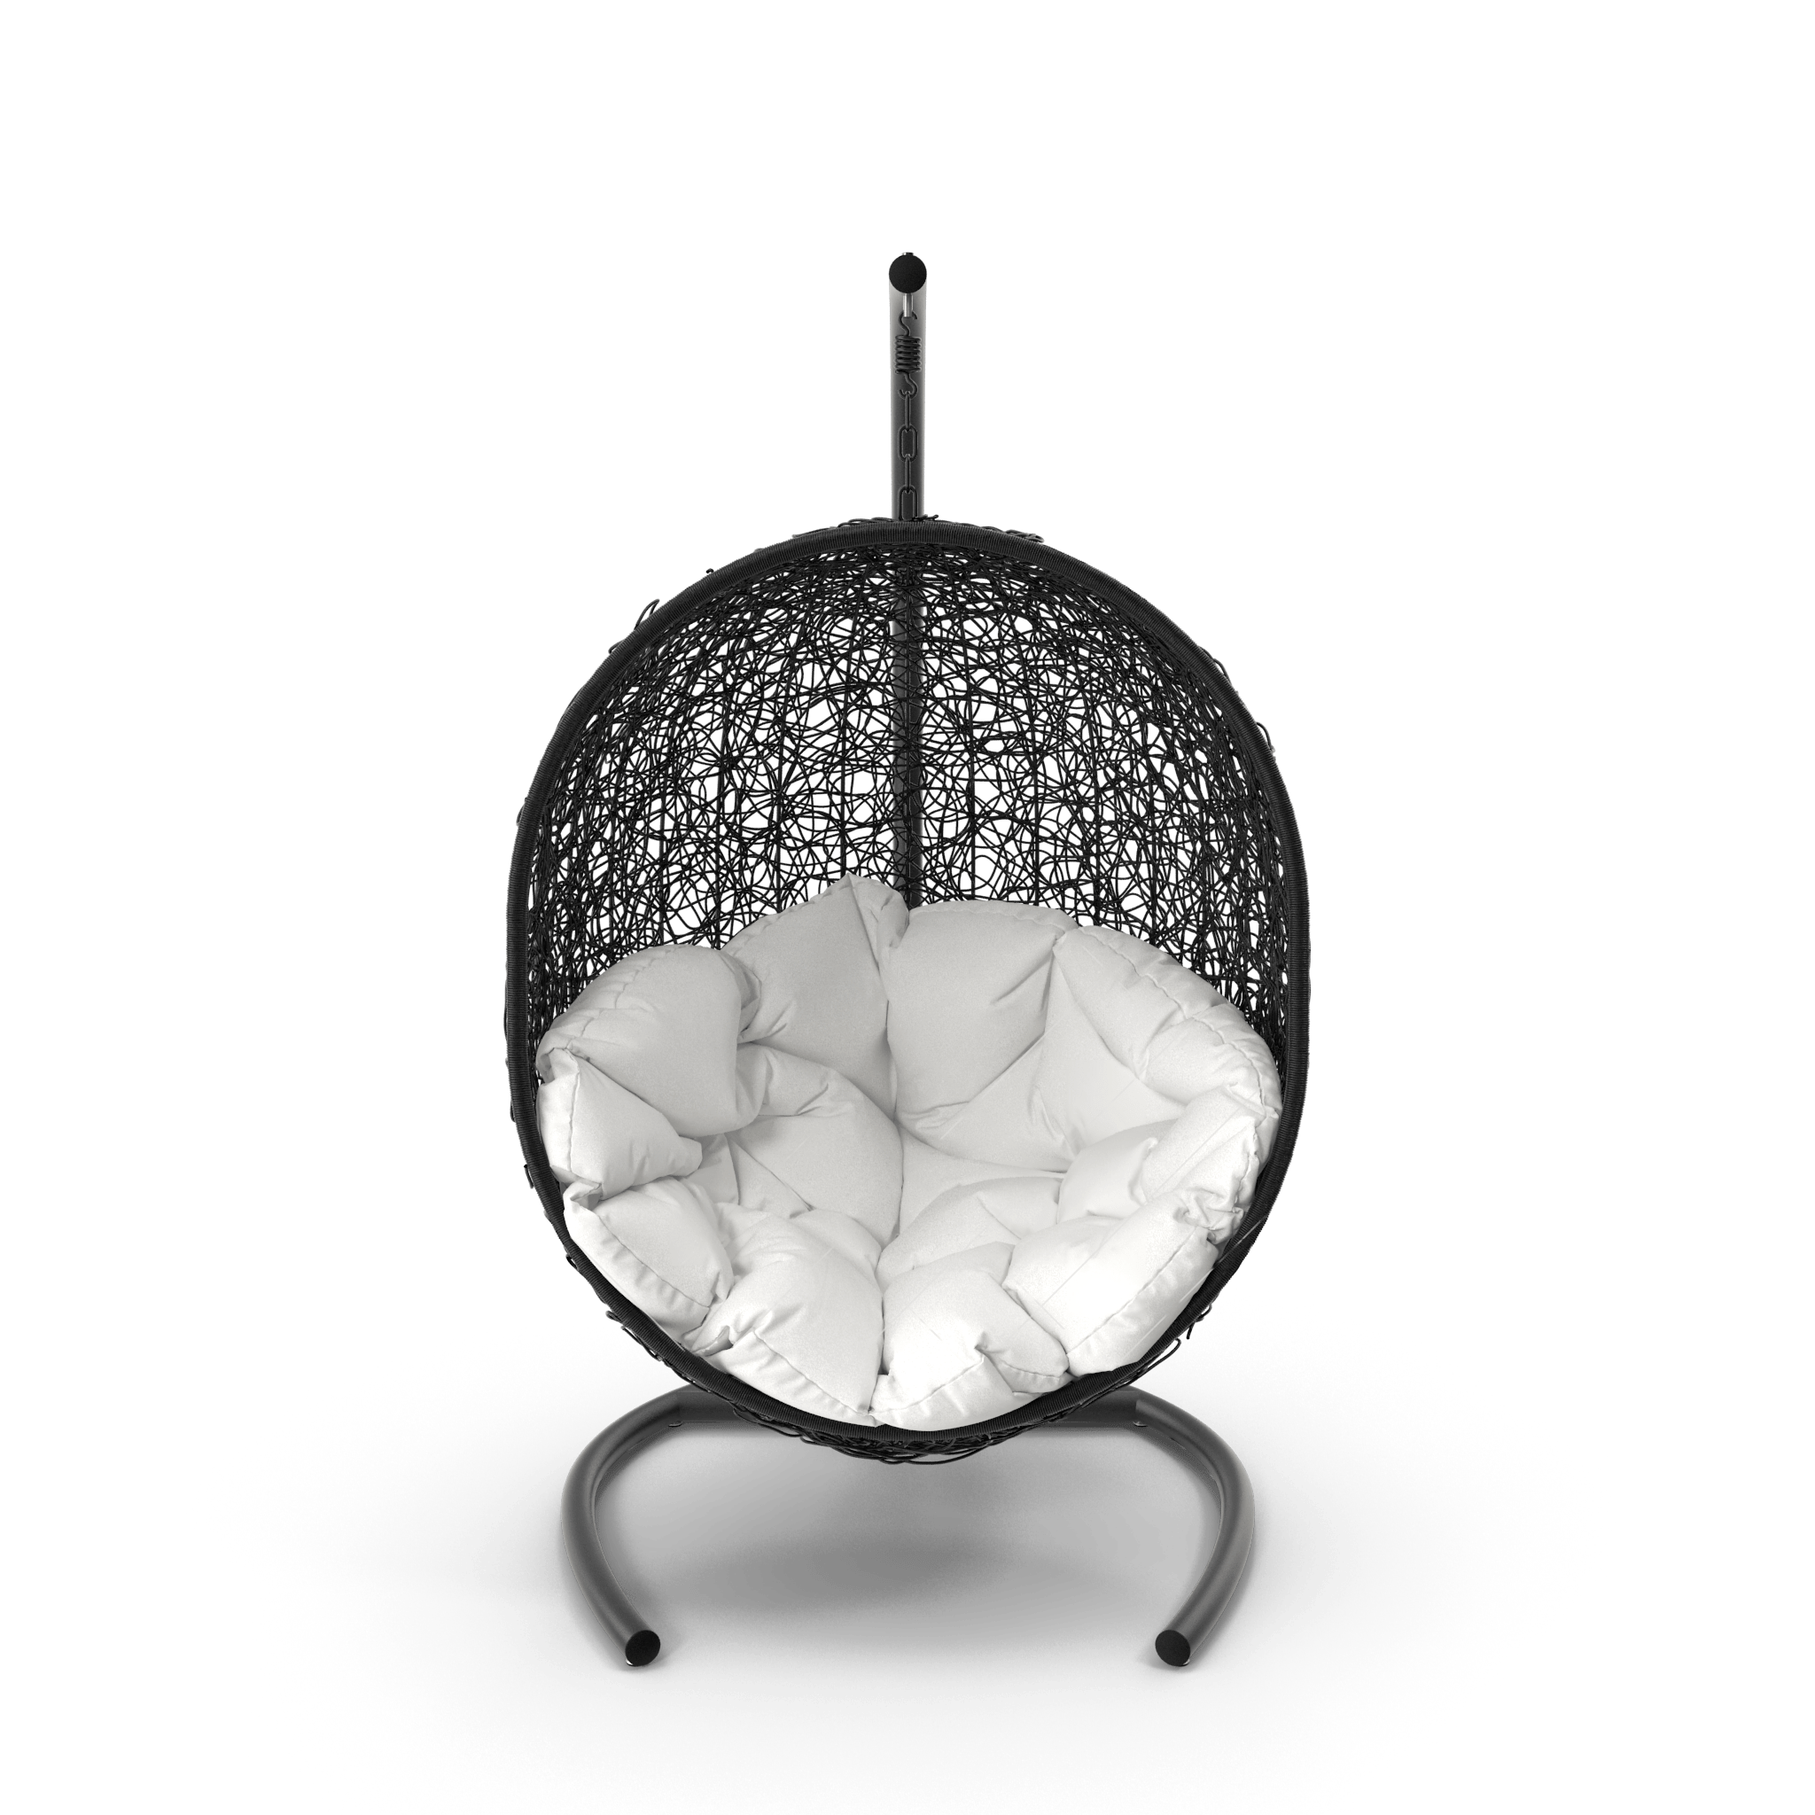
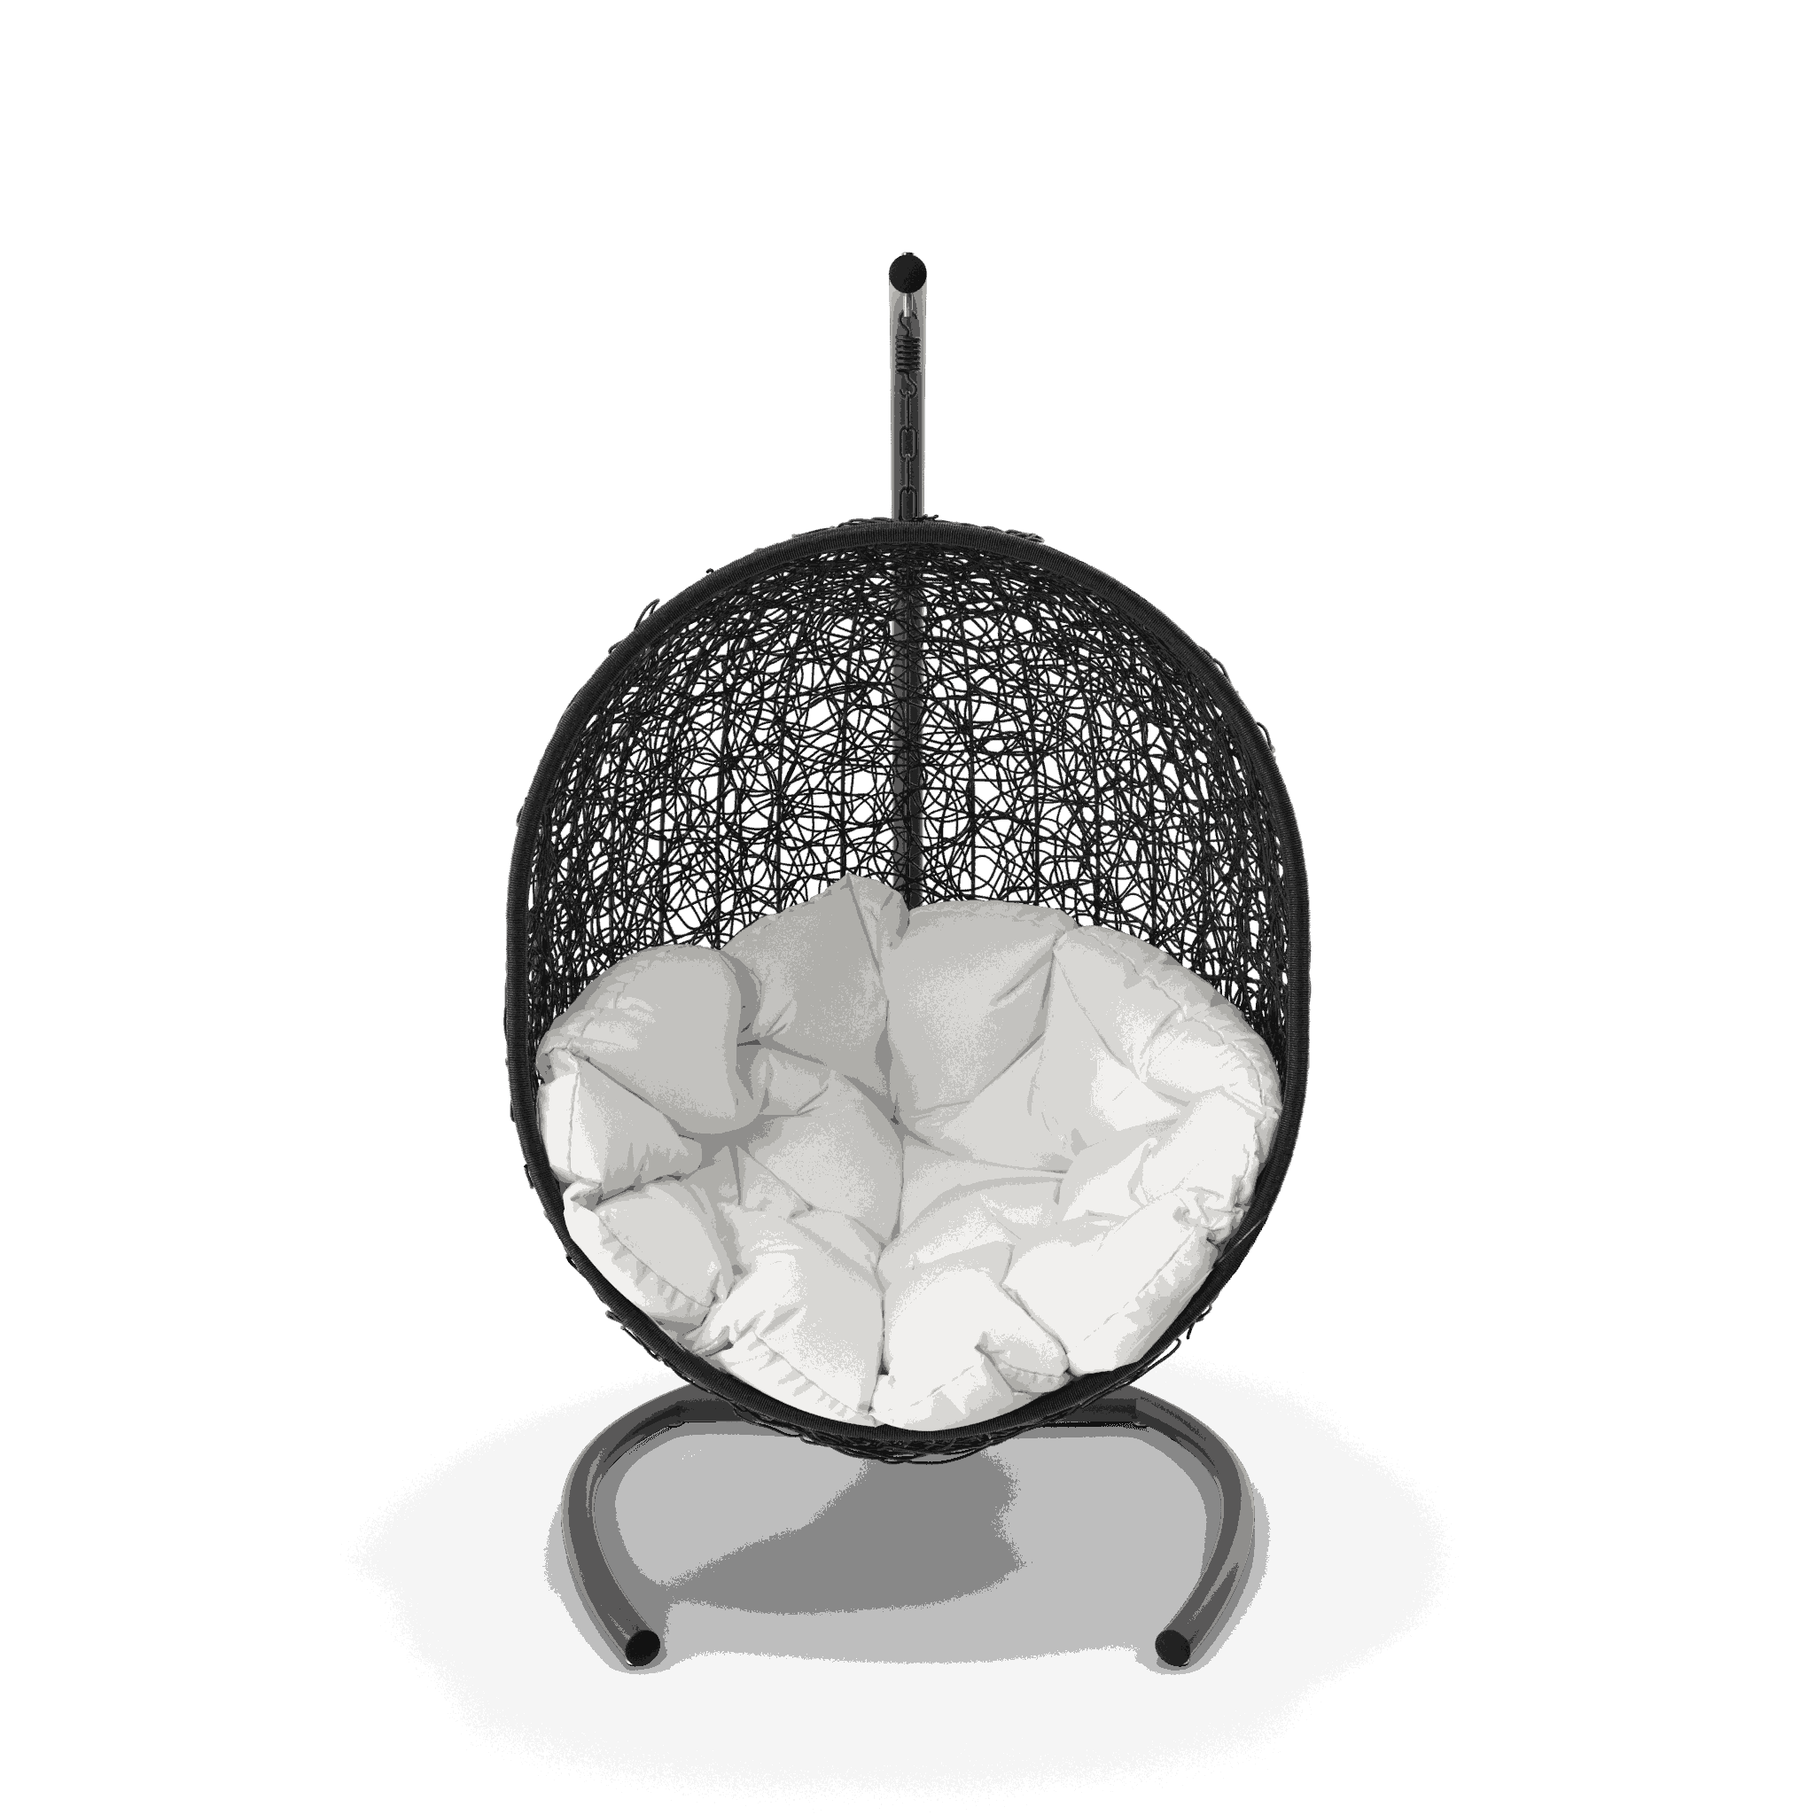
image and site optimization

diff --git a/src/Components/Product/Product.jsx b/src/Components/Product/Product.jsx
@@ -11,6 +11,7 @@ import { snackbarMessage, snackbarMessage2 } from "../../utils/constants";
 import ProductReview from "./ProductReview";
 import CustomButton from "../CustomButton/CustomButton";
 import { useGetProductDetailsQuery } from "../../Reduxtoolkit/apiSlice/apiSlice";
+import CompressedImage from "../CompressedImage";
 
 export default function Product() {
   const [open, setOpen] = React.useState(false);
@@ -66,16 +67,29 @@ export default function Product() {
                   />
                 </div>
                 <div className="flex items-baseline justify-center">
-                  <img
-                    src={
+                  {/* <img
+                      src={
+                        product.images.length > 0
+                          ? product.images[imageIdx]
+                          : product.thumbnail
+                      }
+                      loading="lazy"
+                      alt={product.title}
+                      className="rounded-3xl transition ease-in-out delay-25 hover:-translate-y-1 hover:scale-105
+                duration-300 cursor-pointer "
+                    /> */}
+
+                  <CompressedImage
+                    imageUrl={
                       product.images.length > 0
                         ? product.images[imageIdx]
                         : product.thumbnail
                     }
-                    loading="lazy"
+                    thumbnail={product.thumbnail}
                     alt={product.title}
-                    className="w-[100%] md:w-[60%] lg:w-[70%] object-cover rounded-3xl transition ease-in-out delay-25 hover:-translate-y-1 hover:scale-105
-                duration-300 cursor-pointer "
+                    loading="lazy"
+                    classes="rounded-3xl transition ease-in-out delay-25 hover:-translate-y-1 
+                hover:scale-105 duration-300 cursor-pointer"
                   />
                 </div>
               </div>
@@ -85,17 +99,13 @@ export default function Product() {
                   {product.title}
                 </h1>
                 <div className="text-sm md:text-base">
-                  <p>Brand: {product?.brand} </p>
-                  <p>
-                    Units Left:{" "}
-                    {product.stock > 0 ? product.stock : "Out of Stock"}{" "}
-                  </p>
-                  <div className="flex gap-2">
-                    <span>Price: </span>
-                    <span className="font-bold">
-                      Rs. {(product.price * 84).toLocaleString("en-IN")}{" "}
-                    </span>
-                  </div>
+                  {product.brand && <p>Brand: {product.brand} </p>}
+                  {product.stock && (
+                    <p>
+                      Units Left:{" "}
+                      {product.stock > 0 ? product.stock : "Out of Stock"}{" "}
+                    </p>
+                  )}
                   <div className="flex">
                     <span className="line-through mr-1">
                       Rs.{" "}
@@ -109,11 +119,24 @@ export default function Product() {
                       ({product.discountPercentage}% off)
                     </span>
                   </div>
-                  <p>Miniumum Order Quantity: {product.minimumOrderQuantity}</p>
+                  <div className="flex gap-2">
+                    <span>Price: </span>
+                    <span className="font-bold">
+                      Rs. {(product.price * 84).toLocaleString("en-IN")}{" "}
+                    </span>
+                  </div>
+
+                  {product.minimumOrderQuantity > 1 && (
+                    <p>
+                      Miniumum Order Quantity: {product.minimumOrderQuantity}
+                    </p>
+                  )}
                   <p>Rating: {product.rating}/5 </p>
-                  <p className="mb-4 mt-1">
-                    Description: {product.description}.
-                  </p>
+                  {product.description && (
+                    <p className="mb-4 mt-1">
+                      Description: {product.description}.
+                    </p>
+                  )}
                   <div className="flex flex-col gap-2 md:flex-row font-semibold lg:font-bold">
                     <CustomButton
                       text="Add to Cart"

diff --git a/src/Components/CompressedImage.jsx b/src/Components/CompressedImage.jsx
@@ -1,0 +1,64 @@
+import React, { useState, useEffect } from "react";
+import imageCompression from "browser-image-compression";
+
+const CompressedImage = ({
+  imageUrl,
+  thumbnail,
+  alt,
+  onClickFunc,
+  loading,
+  classes,
+}) => {
+  const [compressedImage, setCompressedImage] = useState(null);
+
+  // Compress image using the existing image URL without refetching it
+  const compressImageFromUrl = async (url) => {
+    try {
+      const img = new Image();
+      img.src = url;
+      img.crossOrigin = "Anonymous"; // Ensure the image is accessible for manipulation
+      img.onload = async () => {
+        // Create a canvas to draw the image and convert it to Blob
+        const canvas = document.createElement("canvas");
+        canvas.width = img.width;
+        canvas.height = img.height;
+        const ctx = canvas.getContext("2d");
+        ctx.drawImage(img, 0, 0);
+
+        canvas.toBlob(async (blob) => {
+          const options = {
+            maxSizeMB: 0.5, // Adjust size as needed
+            maxWidthOrHeight: 1280,
+            useWebWorker: true,
+          };
+
+          // Compress the image Blob
+          const compressedBlob = await imageCompression(blob, options);
+          const compressedImageUrl = URL.createObjectURL(compressedBlob);
+          setCompressedImage(compressedImageUrl);
+        }, "image/webp"); // You can also use 'image/webp' for further optimization
+      };
+    } catch (error) {
+      console.error("Error compressing the image:", error);
+    }
+  };
+
+  useEffect(() => {
+    imageUrl && compressImageFromUrl(imageUrl);
+  }, [imageUrl]);
+
+  return (
+    <img
+      src={compressedImage || thumbnail} // Use compressed image if available
+      alt={alt} // Provide default alt text
+      onClick={onClickFunc}
+      loading={loading} // Lazy load the image
+      className={classes}
+      onError={(e) => {
+        e.target.src = imageUrl; // Fallback to original image if error occurs
+      }}
+    />
+  );
+};
+
+export default React.memo(CompressedImage);

diff --git a/src/Components/Header/SearchBar.jsx b/src/Components/Header/SearchBar.jsx
@@ -25,6 +25,22 @@ function SearchBar({ handleSearchClick }) {
     setFetchedData([]);
   };
 
+  const handleShowFetchedData = (e) => {
+    if (e.target.id !== "searchedItems" && e.target.id !== "input") {
+      console.log("eventListener added");
+      setShowFetchedData(false);
+    }
+  };
+
+  useEffect(() => {
+    showFetchedData &&
+      document.body.addEventListener("click", handleShowFetchedData);
+
+    return () => {
+      document.body.removeEventListener("click", handleShowFetchedData);
+    };
+  }, [showFetchedData]);
+
   useEffect(() => {
     if (!userSearch) return;
     const timer = setTimeout(() => {
@@ -32,17 +48,9 @@ function SearchBar({ handleSearchClick }) {
     }, 300);
 
     setFetchedData(fetchedSearchedData?.products);
-    setShowFetchedData(true);
-    const handleShow = (e) => {
-      if (e.target.id !== "searchedItems" && e.target.id !== "input") {
-        setShowFetchedData(false);
-      }
-    };
-    document.body.addEventListener("click", handleShow);
 
     return () => {
       clearTimeout(timer);
-      document.body.removeEventListener("click", handleShow);
     };
   }, [userSearch, fetchedSearchedData]);
 
@@ -68,14 +76,15 @@ function SearchBar({ handleSearchClick }) {
           className="absolute top-10 z-10 py-5 h-max w-full flex flex-col justify-center items-center 
         mx-4 md:mx-0 bg-red-600 rounded-xl"
         >
-          <p className=" text-white text-base">
+          <p className="text-white text-base">
             Oops, API error: {error.message}.
           </p>
-          <p className=" text-white text-base"> Please try after sometime.</p>
+          <p className="text-white text-base"> Please try after sometime.</p>
         </div>
       ) : (
         showFetchedData &&
         fetchedData?.length !== 1 &&
+        userSearch &&
         fetchedData?.length > 0 && (
           <div
             className={`absolute text-black left-0 top-10 ${

diff --git a/src/Components/Product/ProductCarousel.jsx b/src/Components/Product/ProductCarousel.jsx
@@ -2,6 +2,8 @@ import Slider from "react-slick";
 import "slick-carousel/slick/slick.css";
 import "slick-carousel/slick/slick-theme.css";
 import { FaChevronUp, FaChevronDown } from "react-icons/fa";
+import CompressedImage from "../CompressedImage";
+import { useCallback } from "react";
 
 export default function ProductCarousel({ product, setImageFunc }) {
   const CustomPrevArrow = (props) => (
@@ -42,13 +44,23 @@ export default function ProductCarousel({ product, setImageFunc }) {
         className="relative focus:outline-none cursor-pointer"
       >
         {product.images.map((img, index) => (
-          <div key={crypto.randomUUID()} className="">
-            <img
-              className="w-16 h-16 lg:w-28 lg:h-28 object-cover rounded-xl border border-black/30"
-              src={img}
+          <div key={crypto.randomUUID()}>
+            {/* <img
+                className="w-16 h-16 lg:w-28 lg:h-28 object-cover rounded-xl border border-black/30"
+                src={img}
+                alt={product.title}
+                loading="lazy"
+                decoding="async"
+                onClick={() => setImageFunc(index)}
+              /> */}
+
+            <CompressedImage
+              thumbnail={product.thumbnail}
+              imageUrl={img}
               alt={product.title}
+              onClickFunc={useCallback(() => setImageFunc(index), [])}
+              classes="w-16 h-16 lg:w-28 lg:h-28 object-cover rounded-xl border border-black/30"
               loading="lazy"
-              onClick={() => setImageFunc(index)}
             />
           </div>
         ))}

diff --git a/src/Components/Home/Home.jsx b/src/Components/Home/Home.jsx
@@ -6,6 +6,7 @@ import { categoryImages } from "../../utils/constants";
 import { Skeleton } from "@mui/material";
 import Banner from "./Banner";
 import { useGetAllCategoriesQuery } from "../../Reduxtoolkit/apiSlice/apiSlice";
+import CompressedImage from "../CompressedImage";
 
 export default function Home() {
   const [categories, setCategories] = useState(null);
@@ -59,7 +60,10 @@ export default function Home() {
               {" "}
               {error.error ? error.error : error.message}{" "}
             </p>
-            <p className=" text-white text-2xl"> API error: Please try after sometime.</p>
+            <p className=" text-white text-2xl">
+              {" "}
+              API error: Please try after sometime.
+            </p>
           </div>
         ) : (
           categories &&
@@ -81,6 +85,12 @@ export default function Home() {
                   className="h-40 w-44"
                   loading="lazy"
                 />
+                {/* <CompressedImage
+                  alt={category.name}
+                  imageUrl={categoryImages[category.name]}
+                  classes="h-40 w-44"
+                  loading="lazy"
+                /> */}
                 <p className="text-black">{category.name}</p>
               </div>
             );

diff --git a/src/Components/Home/Banner.jsx b/src/Components/Home/Banner.jsx
@@ -4,6 +4,7 @@ import { bannerSlider } from "../../utils/constants";
 import "slick-carousel/slick/slick.css";
 import "slick-carousel/slick/slick-theme.css";
 import { useGetBannerDetailsQuery } from "../../Reduxtoolkit/apiSlice/apiSlice";
+import CompressedImage from "../CompressedImage";
 
 export default function Banner({ data, handleProduct }) {
   const [bannerData, setBannerData] = useState([]);
@@ -34,10 +35,16 @@ export default function Banner({ data, handleProduct }) {
           bannerData.map((item) => {
             return (
               <div key={item.title} className="relative">
-                <img
+                {/* <img
                   src={item.images[0] || item.thumbnail}
                   alt={item.title}
                   className="w-screen h-screen object-cover"
+                /> */}
+                <CompressedImage
+                  imageUrl={item.images[0] || item.thumbnail}
+                  thumbnail={item.thumbnail}
+                  alt={item.title}
+                  classes="w-screen h-screen object-cover"
                 />
                 <div
                   id="imageText"

diff --git a/index.html b/index.html
@@ -6,25 +6,9 @@
     <meta name="viewport" content="width=device-width, initial-scale=1.0" />
     <title>HarryShop</title>
   </head>
-  <!-- <script src="https://accounts.google.com/gsi/client" async defer></script> -->
-
-  <script
-    async
-    defer
-    src="https://www.googletagmanager.com/gtag/js?id=G-DK3KC478NH"
-  ></script>
-
-  <script>
-    window.dataLayer = window.dataLayer || [];
-    function gtag() {
-      dataLayer.push(arguments);
-    }
-    gtag("js", new Date());
-    gtag("config", "G-DK3KC478NH");
-  </script>
 
   <body>
     <div id="root"></div>
-    <script type="module" src="/src/main.jsx"></script>
+    <script type="module" defer src="/src/main.jsx"></script>
   </body>
 </html>

diff --git a/src/Components/Card/ProductCard.jsx b/src/Components/Card/ProductCard.jsx
@@ -1,5 +1,6 @@
 import Ratings from "../Ratings/Ratings";
 import CustomButton from "../CustomButton/CustomButton";
+import CompressedImage from "../CompressedImage";
 
 export default function ProductCard({
   data,
@@ -28,6 +29,7 @@ export default function ProductCard({
         loading="lazy"
         onClick={() => handleProduct(data.title, data.id, data.category)}
       />
+      
       <div className="text-center text-sm md:text-base w-full">
         <p className="text-black">{data.title}</p>
         <p className="font-bold">

diff --git a/src/Components/Products/Products.jsx b/src/Components/Products/Products.jsx
@@ -37,9 +37,6 @@ export default function Products() {
     isLoading,
   } = useGetCategoryProductsQuery(productCategory);
 
-  console.log(fetchedCategoryProducts);
-  
-
   useEffect(() => {
     fetchedCategoryProducts && setProducts(fetchedCategoryProducts.products);
     fetchedCategoryProducts && setMyFiltered(fetchedCategoryProducts.products);

diff --git a/src/utils/constants.js b/src/utils/constants.js
@@ -61,7 +61,7 @@ export const bannerSlider = {
   slidesToShow: 1,
   slidesToScroll: 1,
   arrows: false,
-  autoplay: true,
+  autoplay: false,
   pauseOnHover: false,
 };
 
